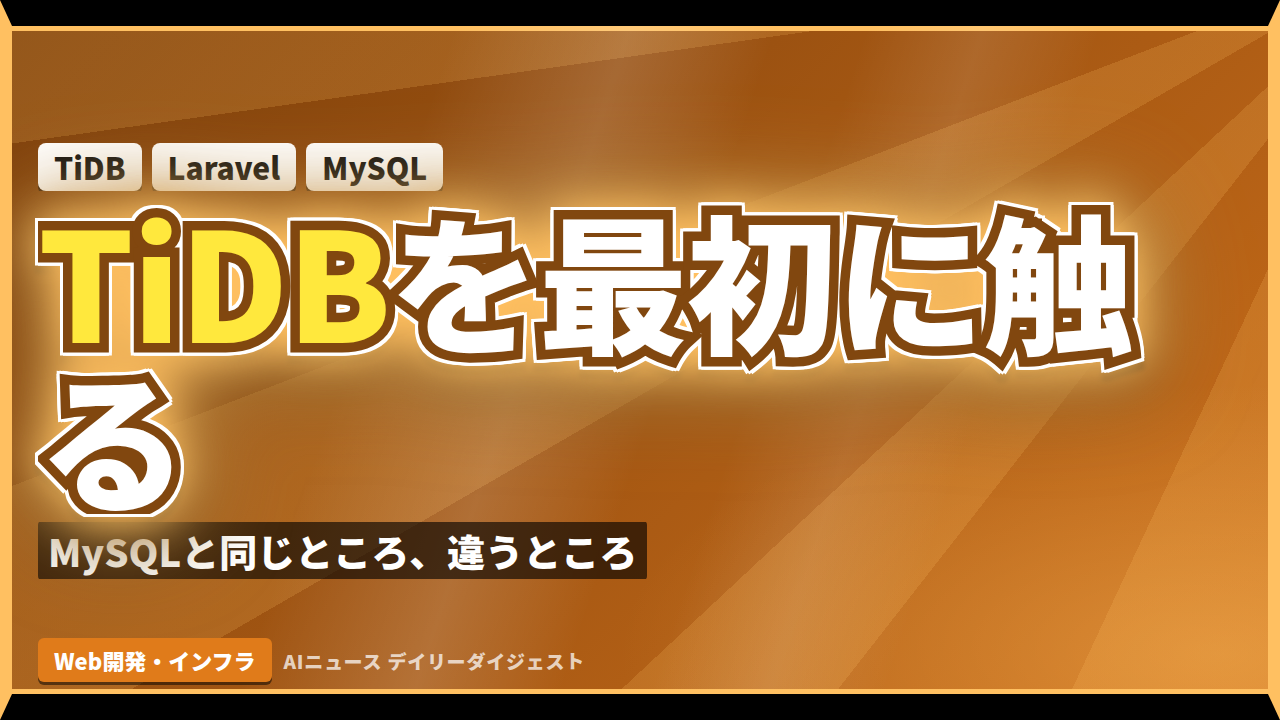
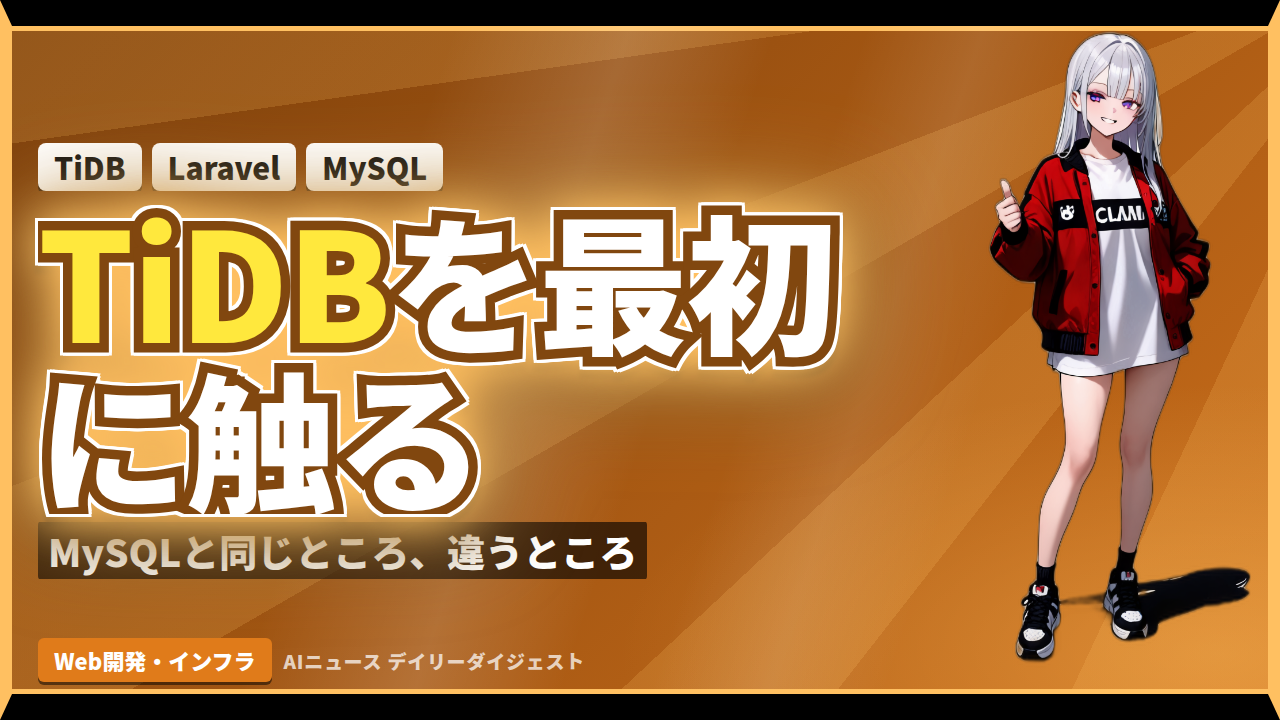
サムネイルにキャラクター5人を導入した
運営者の手元の ComfyUI(RTX 3070 Ti / JANKU v7.77)で生成された25枚を受け取り、
背景を抜いて cast に配置し、全記事のサムネイルを撮り直した。

- _assets/character/cast/<キャラ名>/<ポーズ名>.png に 5人 × 5ポーズ = 25枚
  hinata(青/デイリー) kurumi(マゼンタ/AI) shirase(橙/Web) kotoha(緑/クライアント)
  aoi(黄/チーム)。カテゴリごとの担当は recipe.json の cast[].category で決まる
- _prepare_character.py に --rembg を追加。背景除去モデル(rembg + onnxruntime)で
  切り抜く。--matte(単色の塗りつぶし)では**床の影**と**脚の間のように囲まれた白**が
  残ることを実測したため。25枚の処理は30秒、1枚あたり約1.2秒
- 全25記事のサムネイルを撮り直し、5カテゴリぶんを目視確認した。文字幅は
  キャラの実寸ぶんだけ自動で狭まっている

候補PNG(_candidates/)はリポジトリに残していない。recipe.json の seed が固定なので、
同じコマンドで同じ25枚を再現できる。

残る課題: 素の txt2img なのでポーズごとに顔が少し違う。IPAdapter で揃える手順は
_assets/character/comfy/README.md に用意済み(実機での準備確認まで完了)。

Changed region(s): [[0.625, 0.0306, 1.0, 0.9167], [0.0312, 0.4583, 0.4062, 0.7944]]

diff --git a/_prepare_character.py b/_prepare_character.py
@@ -20,8 +20,9 @@
     # キャラ複数 × ポーズ複数(cast)に入れる。記事の日付で1枚が選ばれる
     python3 _prepare_character.py <画像> --cast hinata --as wave --matte
 
-    # 単色背景の画像を透過にしてから取り込む(ComfyUI の素の出力など)
-    python3 _prepare_character.py _assets/character/_candidates/seed1-7-0.png --matte
+    # 背景を抜いてから取り込む(ComfyUI の素の出力など)
+    python3 _prepare_character.py <画像> --rembg    # 影も抜ける(rembg が要る)
+    python3 _prepare_character.py <画像> --matte    # 単色背景だけ(追加なしで動く)
 
     # いま置いてある画像を検査するだけ(書き換えない)
     python3 _prepare_character.py --check
@@ -50,6 +51,23 @@ MAX_STORE_H = 1320
 MIN_H = 500
 
 VALID_NAMES = ["default"] + list(THEMES)
+
+
+def cut_out(im):
+    """背景除去モデル(rembg)で切り抜く。無ければ None を返す。
+
+    `--matte` の塗りつぶしと違い、**床の影**と**脚の間のように囲まれた背景**も抜けます。
+    ComfyUI の素の出力はどちらも出るので、入っているならこちらを使ってください。
+
+        python3 -m pip install rembg onnxruntime
+
+    初回はモデル(u2net, 176MB)を取りに行きます。以降は ~/.rembg に残ります。
+    """
+    try:
+        from rembg import new_session, remove
+    except ImportError:
+        return None
+    return remove(im, session=new_session("u2net"))
 
 
 def matte(im, tol=32):
@@ -139,12 +157,22 @@ def describe(path):
         print(f"    警告: 縦が{h}pxしかありません({MIN_H}px以上を推奨)。")
 
 
-def prepare(src, dst, do_matte=False, tol=32):
+def prepare(src, dst, do_matte=False, tol=32, do_rembg=False):
     with Image.open(src) as raw:
         im = raw.convert("RGBA")
     before = im.size
 
-    if do_matte:
+    if do_rembg:
+        cut = cut_out(im)
+        if cut is None:
+            print("中止: rembg が入っていません。次で入れるか、--matte を使ってください:",
+                  file=sys.stderr)
+            print("      python3 -m pip install rembg onnxruntime", file=sys.stderr)
+            return 1
+        im = cut
+        ratio, _ = alpha_report(im)
+        print(f"  背景を抜きました(rembg): 全体の {ratio * 100:.0f}% を透過にしました")
+    elif do_matte:
         im, removed = matte(im, tol)
         print(f"  背景を抜きました: 全体の {removed * 100:.0f}% を透過にしました"
               f"(許容差 {tol})")
@@ -159,7 +187,7 @@ def prepare(src, dst, do_matte=False, tol=32):
               "白背景のまま置くと、サムネイルの右に四角い板が出ます。", file=sys.stderr)
         print("      ・VRoid Studio: 「撮影・エクスポート」で背景を透過にして書き出す",
               file=sys.stderr)
-        print("      ・ComfyUI の素の出力など、背景が単色なら --matte を付けて実行する",
+        print("      ・ComfyUI の素の出力なら --rembg(影も抜ける) か --matte(単色のみ)",
               file=sys.stderr)
         return 1
 
@@ -255,7 +283,8 @@ def main():
             return 1
         dst = CHARA_DIR / f"{name}.png"
 
-    return prepare(src, dst, do_matte="--matte" in argv, tol=int(flags["--tolerance"]))
+    return prepare(src, dst, do_matte="--matte" in argv, tol=int(flags["--tolerance"]),
+                   do_rembg="--rembg" in argv)
 
 
 if __name__ == "__main__":

diff --git a/CLAUDE.md b/CLAUDE.md
@@ -1,8 +1,8 @@
 # このリポジトリで記事を書くときの決まり
 
 > **作業中のテーマがある場合は `_HANDOFF.md` を先に読んでください。**
-> いまは「サムネイルのキャラクターをどう用意するか」が次の課題です。
-> すでに試してダメだった方法もそこに書いてあります。
+> サムネイルのキャラクターは 2026/8/18 に導入済み（5人 × ポーズ5種）。
+> 残りの課題と、試してダメだった方法もそこに書いてあります。
 
 このサイトの記事を作成・更新するときは、以下に必ず従ってください。
 定期実行タスク（毎朝のダイジェスト、週次の連載）にも同じく適用されます。
@@ -227,11 +227,14 @@ _fetch_popular.py     # GoatCounterから閲覧数取得
 
 ### キャラクターについて
 
-**いまは置いていません。** 一度SVGで自作して入れましたが、
-**手書きのSVGではアニメ作品と同等の品質に届かない**ため外しました。
-文字を広く使えるぶん、無いほうが読めます。
+**カテゴリごとに1人ずつ、計5人を置いています**（2026/8/18〜）。
+ポーズ・衣装は5種あり、記事の日付で1枚が選ばれます。
+運営者の手元の ComfyUI（JANKU v7.77）で生成し、人が選んだものです。
 
-置きたくなったら、**画像を置くだけで復活します**（コード変更は不要）。
+一度SVGで自作しましたが、**手書きのSVGではアニメ作品と同等の品質に届かない**ため
+やめました。同じ方向で粘らないこと（`_HANDOFF.md` 第2節）。
+
+差し替えたいときは、**画像を置き換えるだけです**（コード変更は不要）。
 
 ```
 _assets/character/cast/<キャラ名>/<ポーズ名>.png   # カテゴリごとに担当を決める形(いまはこれ)
@@ -248,14 +251,16 @@ _assets/character/クライアント技術.png             # カテゴリ別に1
 サムネイル上で何pxを占めるかの表示を一度にやります。詳しくは `_assets/character/README.md`。
 
 ```bash
-python3 _prepare_character.py <画像> --cast hinata --as wave --matte  # cast に入れる
+python3 _prepare_character.py <画像> --cast hinata --as wave --rembg  # cast に入れる
 python3 _prepare_character.py <画像> [カテゴリ名]                      # 1枚だけ置く
 python3 _prepare_character.py --check                                 # いまの状態を見るだけ
 ```
 
 - 背景透過のPNG、縦長（600×840px 程度以上）を想定
 - **透過していない画像は受け付けません**（右に四角い板が出るため）。
-  背景が単色なら `--matte` で、外周から繋がった背景だけを抜けます
+  `--rembg` は背景除去モデルで切り抜き、**床の影も囲まれた背景も抜けます**
+  （`pip install rembg onnxruntime`）。`--matte` は追加なしで動く簡易版で、
+  単色背景の外周から繋がった部分だけを塗ります（影は残ります）
 - 収まる箱は **幅268px × 高さ660px**。縦横比は保ったまま収められ、
   実際に占めた幅のぶんだけ文字の幅が自動で狭まります
 - **他人のイラストを持ち込まないこと。** 参考にしたチャンネルのキャラクターを

diff --git a/_assets/character/comfy/README.md b/_assets/character/comfy/README.md
@@ -108,8 +108,11 @@ python3 _comfy_character.py \
 
 ```bash
 python3 _prepare_character.py \
-  _assets/character/_candidates/hinata/wave.png --cast hinata --as wave --matte
+  _assets/character/_candidates/hinata/wave.png --cast hinata --as wave --rembg
 ```
+
+**`--rembg` を使ってください。** ComfyUI の素の出力には床の影が入ることが多く、
+`--matte`（単色の塗りつぶし）では影と、脚の間のように囲まれた白が残ります（実測）。
 
 `_assets/character/cast/<キャラ名>/<ポーズ名>.png` に入り、記事の日付で自動的に選ばれます。
 詳しくは1つ上の階層の `README.md` を見てください。
